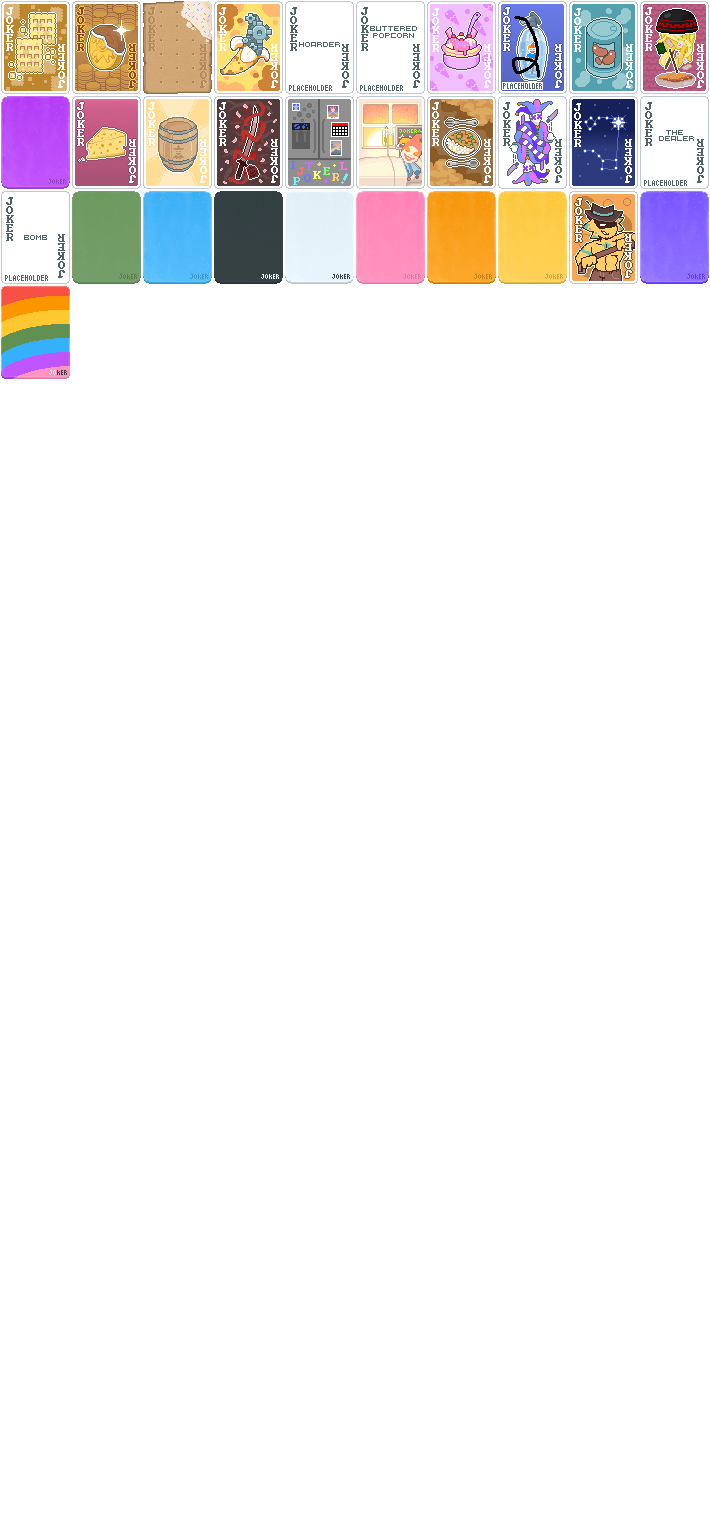
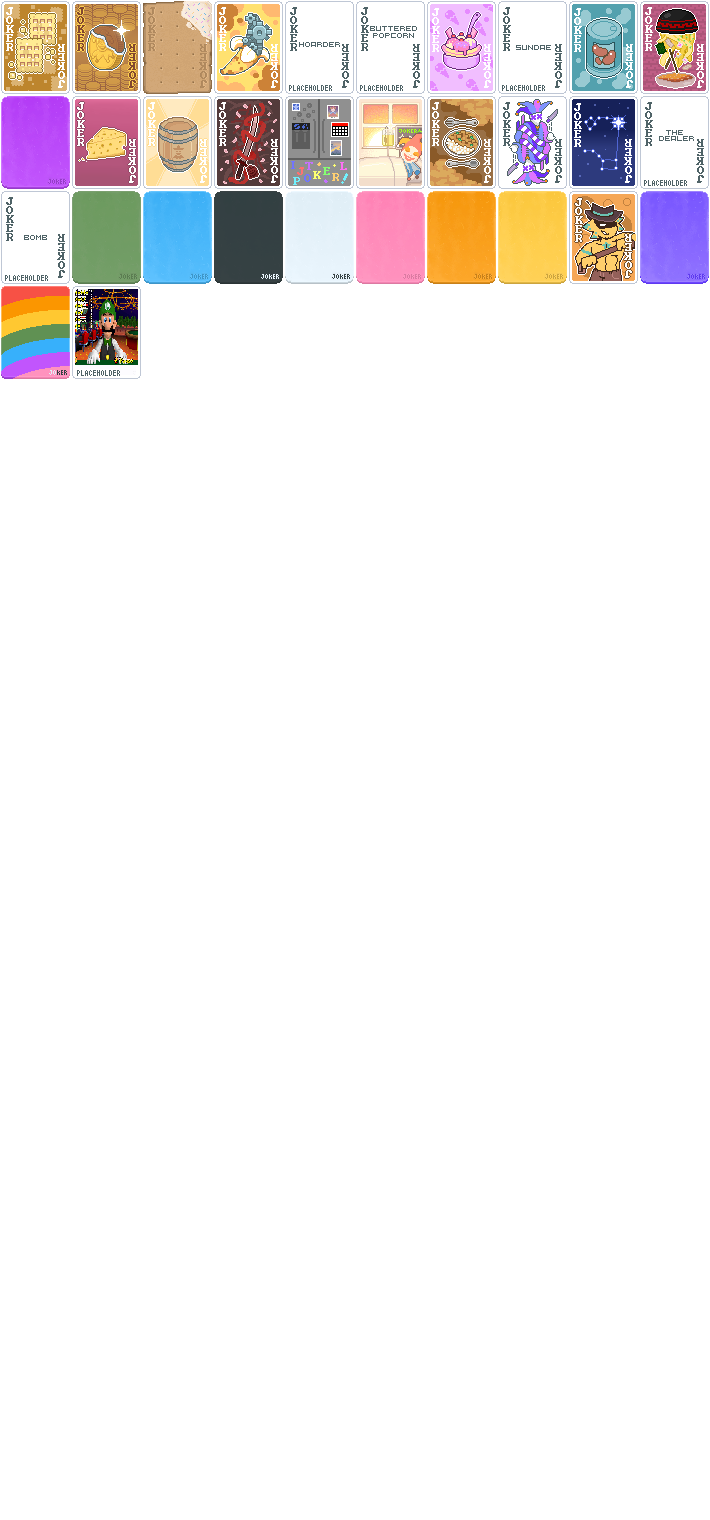
0.6.2 changes

Changed region(s): [[0.6817, 0.0, 0.8056, 0.0618], [0.093, 0.1855, 0.2169, 0.2474]]

diff --git a/README.md b/README.md
@@ -1,2 +1,2 @@
 # TheCrackerPack
-A Balatro content expansion mod.
+A Balatro mod that adds new content, including upgraded food, vouchers, challenges, and more!
